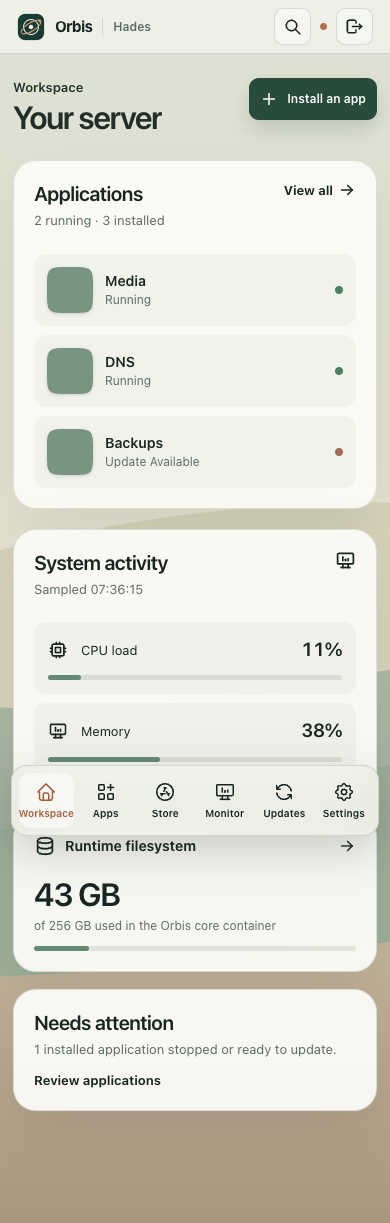
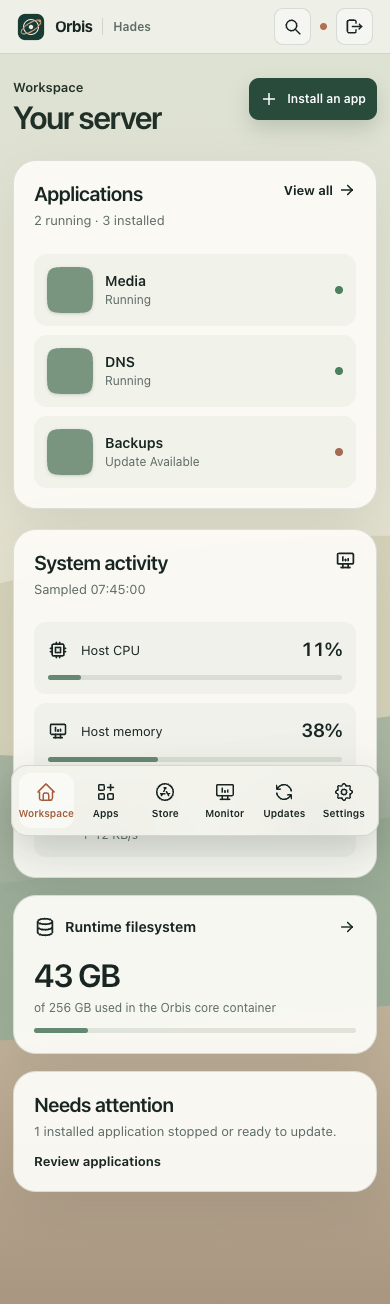
Use shared live telemetry on workspace

diff --git a/packages/frontend/src/modules/dashboard/pages/dashboard.tsx b/packages/frontend/src/modules/dashboard/pages/dashboard.tsx
@@ -1,22 +1,52 @@
-import { getInstalledAppsOptions, getLinksOptions, systemLoadOptions } from '@/api-client/@tanstack/react-query.gen';
+import { getInstalledAppsOptions, getLinksOptions } from '@/api-client/@tanstack/react-query.gen';
 import { AppLogo } from '@/components/app-logo/app-logo';
-import { IconApps, IconArrowRight, IconCpu, IconDatabase, IconDeviceDesktopAnalytics, IconPlus } from '@tabler/icons-react';
+import { loadTelemetry, telemetryQueryKey, type Telemetry } from '@/desktop/telemetry';
+import { IconApps, IconArrowRight, IconArrowsDownUp, IconCpu, IconDatabase, IconDeviceDesktopAnalytics, IconPlus } from '@tabler/icons-react';
 import { useQuery } from '@tanstack/react-query';
 import { Link } from 'react-router';
 import './dashboard.css';
 
-const number = (value: number | undefined, suffix: string) =>
+const number = (value: number | null | undefined, suffix: string) =>
   typeof value === 'number' && Number.isFinite(value) ? `${value.toFixed(value < 10 ? 1 : 0)}${suffix}` : 'Unavailable';
+const rate = (value: number | null) => {
+  if (value === null) return 'Unavailable';
+  if (value < 1024) return `${value.toFixed(0)} B/s`;
+  const units = ['KB/s', 'MB/s', 'GB/s'];
+  let amount = value;
+  let index = -1;
+  do {
+    amount /= 1024;
+    index++;
+  } while (amount >= 1024 && index < units.length - 1);
+  return `${amount.toFixed(amount < 10 ? 1 : 0)} ${units[index]}`;
+};
 
 export default function Dashboard() {
   const apps = useQuery({ ...getInstalledAppsOptions(), refetchInterval: 15000 });
   const links = useQuery({ ...getLinksOptions() });
-  const system = useQuery({ ...systemLoadOptions(), refetchInterval: 5000, refetchIntervalInBackground: false });
+  const system = useQuery<Telemetry>({
+    queryKey: telemetryQueryKey,
+    queryFn: ({ signal }) => loadTelemetry(signal),
+    refetchInterval: 5000,
+    refetchIntervalInBackground: false,
+  });
   const installed = apps.data?.installed.filter(({ info }) => info.available) ?? [];
   const running = installed.filter(({ app }) => app.status === 'running').length;
   const attention = installed.filter(({ app, metadata }) => app.status === 'stopped' || Number(app.version) < Number(metadata.latestVersion)).length;
-  const diskAvailable = Boolean(system.data && system.data.diskSize > 0);
-  const memoryAvailable = Boolean(system.data && system.data.memoryTotal > 0);
+  const disk = system.data?.filesystems.find((filesystem) => filesystem.mount === '/') ?? system.data?.filesystems[0];
+  const diskAvailable = typeof disk?.sizeBytes === 'number' && disk.sizeBytes > 0 && typeof disk.usedBytes === 'number';
+  const diskUsedGb = diskAvailable ? (disk?.usedBytes ?? 0) / 1024 ** 3 : null;
+  const diskSizeGb = diskAvailable ? (disk?.sizeBytes ?? 0) / 1024 ** 3 : null;
+  const diskPercent = diskAvailable && disk?.sizeBytes ? ((disk.usedBytes ?? 0) / disk.sizeBytes) * 100 : null;
+  const memoryTotal = system.data?.memory.totalBytes;
+  const memoryAvailable = typeof memoryTotal === 'number' && memoryTotal > 0 && typeof system.data?.memory.availableBytes === 'number';
+  const memoryPercent = memoryAvailable ? ((memoryTotal - (system.data?.memory.availableBytes ?? 0)) / memoryTotal) * 100 : null;
+  const cpuPercent = system.data?.cpu.totalPercent;
+  const networkInterfaces = system.data?.network.filter((item) => item.interface !== 'lo') ?? [];
+  const networkRate = (field: 'rxBytesPerSecond' | 'txBytesPerSecond') =>
+    networkInterfaces.length && networkInterfaces.every((item) => item[field] !== null)
+      ? networkInterfaces.reduce((sum, item) => sum + (item[field] ?? 0), 0)
+      : null;
 
   return (
     <div className="workspace">
@@ -107,7 +137,7 @@ export default function Dashboard() {
             <div className="workspace-section-heading">
               <div>
                 <h2 id="workspace-activity-title">System activity</h2>
-                <p>{system.dataUpdatedAt ? `Sampled ${new Date(system.dataUpdatedAt).toLocaleTimeString()}` : 'Waiting for live sample'}</p>
+                <p>{system.data?.sampledAt ? `Sampled ${new Date(system.data.sampledAt).toLocaleTimeString()}` : 'Waiting for live sample'}</p>
               </div>
               <Link to="/monitor" aria-label="Open System Monitor">
                 <IconDeviceDesktopAnalytics size={21} aria-hidden="true" />
@@ -124,19 +154,25 @@ export default function Dashboard() {
               <div className="workspace-metrics">
                 <Link to="/monitor" className="workspace-metric">
                   <IconCpu size={20} aria-hidden="true" />
-                  <span>CPU load</span>
-                  <strong>{number(system.data?.cpuLoad, '%')}</strong>
+                  <span>{system.data ? (system.data.cpu.scope === 'host-proc' ? 'Host CPU' : 'Core CPU') : 'CPU'}</span>
+                  <strong>{number(cpuPercent, '%')}</strong>
                   <div className="workspace-meter">
-                    <span style={{ width: `${Math.min(100, Math.max(0, system.data?.cpuLoad ?? 0))}%` }} />
+                    <span style={{ width: `${Math.min(100, Math.max(0, cpuPercent ?? 0))}%` }} />
                   </div>
                 </Link>
                 <Link to="/monitor" className="workspace-metric">
                   <IconDeviceDesktopAnalytics size={20} aria-hidden="true" />
-                  <span>Memory</span>
-                  <strong>{memoryAvailable ? number(system.data?.percentUsedMemory, '%') : 'Unavailable'}</strong>
+                  <span>Host memory</span>
+                  <strong>{number(memoryPercent, '%')}</strong>
                   <div className="workspace-meter">
-                    <span style={{ width: `${memoryAvailable ? Math.min(100, Math.max(0, system.data?.percentUsedMemory ?? 0)) : 0}%` }} />
+                    <span style={{ width: `${Math.min(100, Math.max(0, memoryPercent ?? 0))}%` }} />
                   </div>
+                </Link>
+                <Link to="/monitor" className="workspace-metric">
+                  <IconArrowsDownUp size={20} aria-hidden="true" />
+                  <span>Core network</span>
+                  <strong>↓ {rate(networkRate('rxBytesPerSecond'))}</strong>
+                  <span className="workspace-network-upload">↑ {rate(networkRate('txBytesPerSecond'))}</span>
                 </Link>
               </div>
             )}
@@ -147,10 +183,10 @@ export default function Dashboard() {
               <span>Runtime filesystem</span>
               <IconArrowRight size={18} aria-hidden="true" />
             </div>
-            <strong>{diskAvailable ? `${system.data?.diskUsed} GB` : 'Unavailable'}</strong>
-            <small>{diskAvailable ? `of ${system.data?.diskSize} GB used in the Orbis core container` : 'Waiting for a filesystem reading'}</small>
+            <strong>{number(diskUsedGb, ' GB')}</strong>
+            <small>{diskAvailable ? `of ${number(diskSizeGb, ' GB')} used in the Orbis core container` : 'Waiting for a filesystem reading'}</small>
             <div className="workspace-meter">
-              <span style={{ width: `${diskAvailable ? Math.min(100, Math.max(0, system.data?.percentUsed ?? 0)) : 0}%` }} />
+              <span style={{ width: `${Math.min(100, Math.max(0, diskPercent ?? 0))}%` }} />
             </div>
           </Link>
           <section className="workspace-attention" aria-labelledby="workspace-attention-title">

diff --git a/packages/frontend/src/modules/dashboard/pages/monitor.tsx b/packages/frontend/src/modules/dashboard/pages/monitor.tsx
@@ -1,35 +1,8 @@
 import { useQuery } from '@tanstack/react-query';
 import { useEffect, useState } from 'react';
 import { Link } from 'react-router';
+import { loadTelemetry, telemetryQueryKey, type Telemetry } from '@/desktop/telemetry';
 import './monitor.css';
-
-type Telemetry = {
-  sampledAt: string;
-  cpu: { scope: 'host-proc' | 'runtime'; totalPercent: number | null; perCorePercent: (number | null)[]; uptimeSeconds: number | null };
-  memory: {
-    scope: 'host-proc';
-    totalBytes: number | null;
-    availableBytes: number | null;
-    swapTotalBytes: number | null;
-    swapFreeBytes: number | null;
-  };
-  filesystems: {
-    mount: string;
-    filesystem: string;
-    sizeBytes: number | null;
-    usedBytes: number | null;
-    availableBytes: number | null;
-    scope: 'runtime';
-  }[];
-  network: {
-    interface: string;
-    rxBytesPerSecond: number | null;
-    txBytesPerSecond: number | null;
-    receivedBytes: number | null;
-    transmittedBytes: number | null;
-    scope: 'runtime';
-  }[];
-};
 
 const bytes = (value: number | null) => {
   if (value === null || !Number.isFinite(value)) return 'Unavailable';
@@ -94,12 +67,8 @@ function LiveChart({
 export default function Monitor() {
   const [history, setHistory] = useState<HistoryPoint[]>([]);
   const telemetry = useQuery<Telemetry>({
-    queryKey: ['system-telemetry'],
-    queryFn: async ({ signal }) => {
-      const response = await fetch('/api/system/telemetry', { credentials: 'include', signal });
-      if (!response.ok) throw new Error('Unable to read system telemetry');
-      return response.json() as Promise<Telemetry>;
-    },
+    queryKey: telemetryQueryKey,
+    queryFn: ({ signal }) => loadTelemetry(signal),
     refetchInterval: 5000,
     refetchIntervalInBackground: false,
   });

diff --git a/packages/frontend/src/desktop/telemetry.ts b/packages/frontend/src/desktop/telemetry.ts
@@ -1,0 +1,35 @@
+export type Telemetry = {
+  sampledAt: string;
+  cpu: { scope: 'host-proc' | 'runtime'; totalPercent: number | null; perCorePercent: (number | null)[]; uptimeSeconds: number | null };
+  memory: {
+    scope: 'host-proc';
+    totalBytes: number | null;
+    availableBytes: number | null;
+    swapTotalBytes: number | null;
+    swapFreeBytes: number | null;
+  };
+  filesystems: {
+    mount: string;
+    filesystem: string;
+    sizeBytes: number | null;
+    usedBytes: number | null;
+    availableBytes: number | null;
+    scope: 'runtime';
+  }[];
+  network: {
+    interface: string;
+    rxBytesPerSecond: number | null;
+    txBytesPerSecond: number | null;
+    receivedBytes: number | null;
+    transmittedBytes: number | null;
+    scope: 'runtime';
+  }[];
+};
+
+export const telemetryQueryKey = ['system-telemetry'] as const;
+
+export async function loadTelemetry(signal: AbortSignal): Promise<Telemetry> {
+  const response = await fetch('/api/system/telemetry', { credentials: 'include', signal });
+  if (!response.ok) throw new Error('Unable to read system telemetry');
+  return response.json() as Promise<Telemetry>;
+}

diff --git a/packages/frontend/src/modules/dashboard/pages/dashboard.css b/packages/frontend/src/modules/dashboard/pages/dashboard.css
@@ -21,20 +21,21 @@
   letter-spacing: -0.045em;
   margin: 0;
 }
-.workspace-add {
+.desktop .workspace-add {
   display: inline-flex;
   align-items: center;
   gap: 9px;
   min-height: 42px;
   padding: 0 16px;
   border-radius: 10px;
-  color: #fff !important;
+  color: #fff;
   background: #284b3c;
   text-decoration: none;
   font-weight: 600;
   box-shadow: 0 9px 20px rgba(22, 50, 39, 0.17);
 }
-.workspace-add:hover {
+.desktop .workspace-add:hover {
+  color: #fff;
   background: #1e3d30;
   text-decoration: none;
 }
@@ -247,6 +248,12 @@
   font-variant-numeric: tabular-nums;
   letter-spacing: -0.025em;
 }
+.workspace-metric .workspace-network-upload {
+  grid-column: 2 / -1;
+  color: var(--desktop-muted);
+  font-size: 12px;
+  font-variant-numeric: tabular-nums;
+}
 .workspace-meter {
   grid-column: 1 / -1;
   width: 100%;
@@ -316,7 +323,7 @@
   .workspace-heading {
     align-items: start;
   }
-  .workspace-add {
+  .desktop .workspace-add {
     padding: 0 11px;
     font-size: 12px;
     white-space: nowrap;

diff --git a/IMPLEMENTATION.md b/IMPLEMENTATION.md
@@ -22,7 +22,7 @@ The requested browser Update Center for apps, Orbis releases, and host packages 
 ## Current implementation
 
 - Authenticated server desktop shell with a responsive top bar, dock, first-party routes, keyboard tool and installed-app search, and logout through the existing API.
-- Workspace populated from Runtipi's installed-app, links, and system-load APIs. App and store detail links keep their original routes and lifecycle components.
+- Workspace populated from Runtipi's installed-app and links APIs plus the authenticated telemetry endpoint shared with Monitor. It labels host CPU and memory, core-container network, and runtime filesystem readings. App and store detail links keep their original routes and lifecycle components.
 - System Monitor uses a new authenticated `/api/system/telemetry` endpoint for current per-core CPU, host-mounted memory and swap, runtime filesystems, and runtime network interfaces. Unavailable readings stay unavailable. Live charts keep at most 60 samples in the open browser view; there is no fabricated or persisted history.
 - New per-user desktop appearance endpoint under `/api/desktop-preferences`, protected by Runtipi's `AuthGuard` and request validation. Data is stored under the existing `/data/state/desktop` mount, with browser caching and export/import of non-secret settings.
 - Three bundled original SVG wallpapers and six appearance presets, with saved per-user selection. Login, app list, store, settings, and detail routes sit within the shared visual shell.
@@ -32,7 +32,7 @@ The requested browser Update Center for apps, Orbis releases, and host packages 
 ## Current limits
 
 - This is an implemented first slice, not yet a drop-in Runtipi replacement. The store and detail flows still need deeper visual work; task history, window controls, editable widgets, expanded monitoring, wallpaper upload, and advanced theme controls are pending.
-- The existing `/system/load` endpoint reports CPU and filesystem data from the Runtipi runtime. The dashboard labels the filesystem accordingly. The new telemetry endpoint adds current runtime network and filesystem detail, but host-wide disks/network, temperatures, fans, GPU, container telemetry, and historical storage still need explicit host mounts or an agent design.
+- The inherited `/system/load` endpoint reports CPU and filesystem data from the Runtipi runtime; the new workspace uses `/system/telemetry` instead. That endpoint reports host CPU and memory when the read-only proc mounts exist, while filesystem and network detail still describe the Orbis core container. Host-wide disks/network, temperatures, fans, GPU, container telemetry, and historical storage still need explicit host mounts or an agent design.
 - Browser screenshots include labelled development fixtures and a clean-install run against an isolated Colima Docker daemon. The latter verified registration, welcome, main routes, authenticated telemetry/preferences, and a 248-entry official catalogue. A disposable Whoami lifecycle and a synthetic stock CLI migration/rollback have since passed. Migration of real homelab data remains untested.
 - The official app-store connection uses the unchanged Runtipi mechanism. Catalogue search and one official Whoami install/uninstall path were verified on the clean install; app updates and custom-store refresh still need disposable-daemon checks.
 

diff --git a/CHANGELOG.md b/CHANGELOG.md
@@ -17,5 +17,6 @@
 - Added a guarded release staging command that writes only a digest-pinned core Compose override, plus stricter external-path review in migration preflight.
 - Added Ocean and Blush appearance presets and two more bundled local wallpapers, retaining earlier saved preferences.
 - Reconciled persisted application statuses against Docker during startup, so a stopped container is not initially shown as running after a core restart.
+- Switched the workspace activity tiles to the same live telemetry used by Monitor, with host CPU and memory, clearly scoped core network rates, and runtime filesystem usage.
 
 Real homelab migration, automatic core installation and rollback, host package updates, and multi-server pairing remain outstanding.
